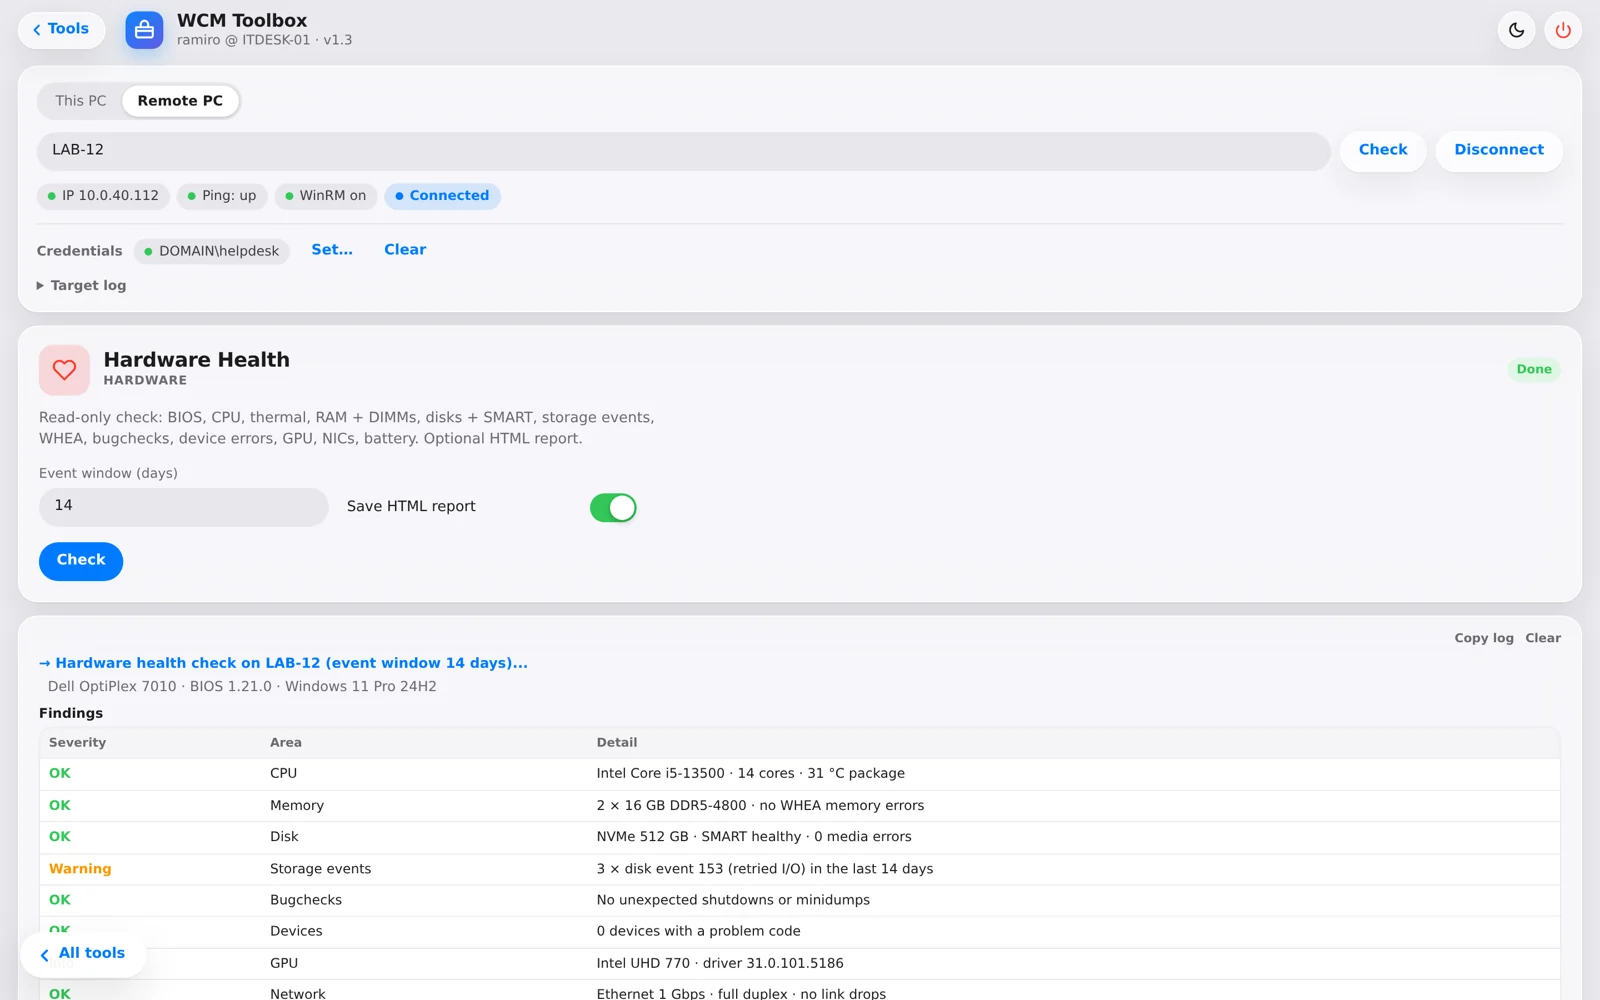
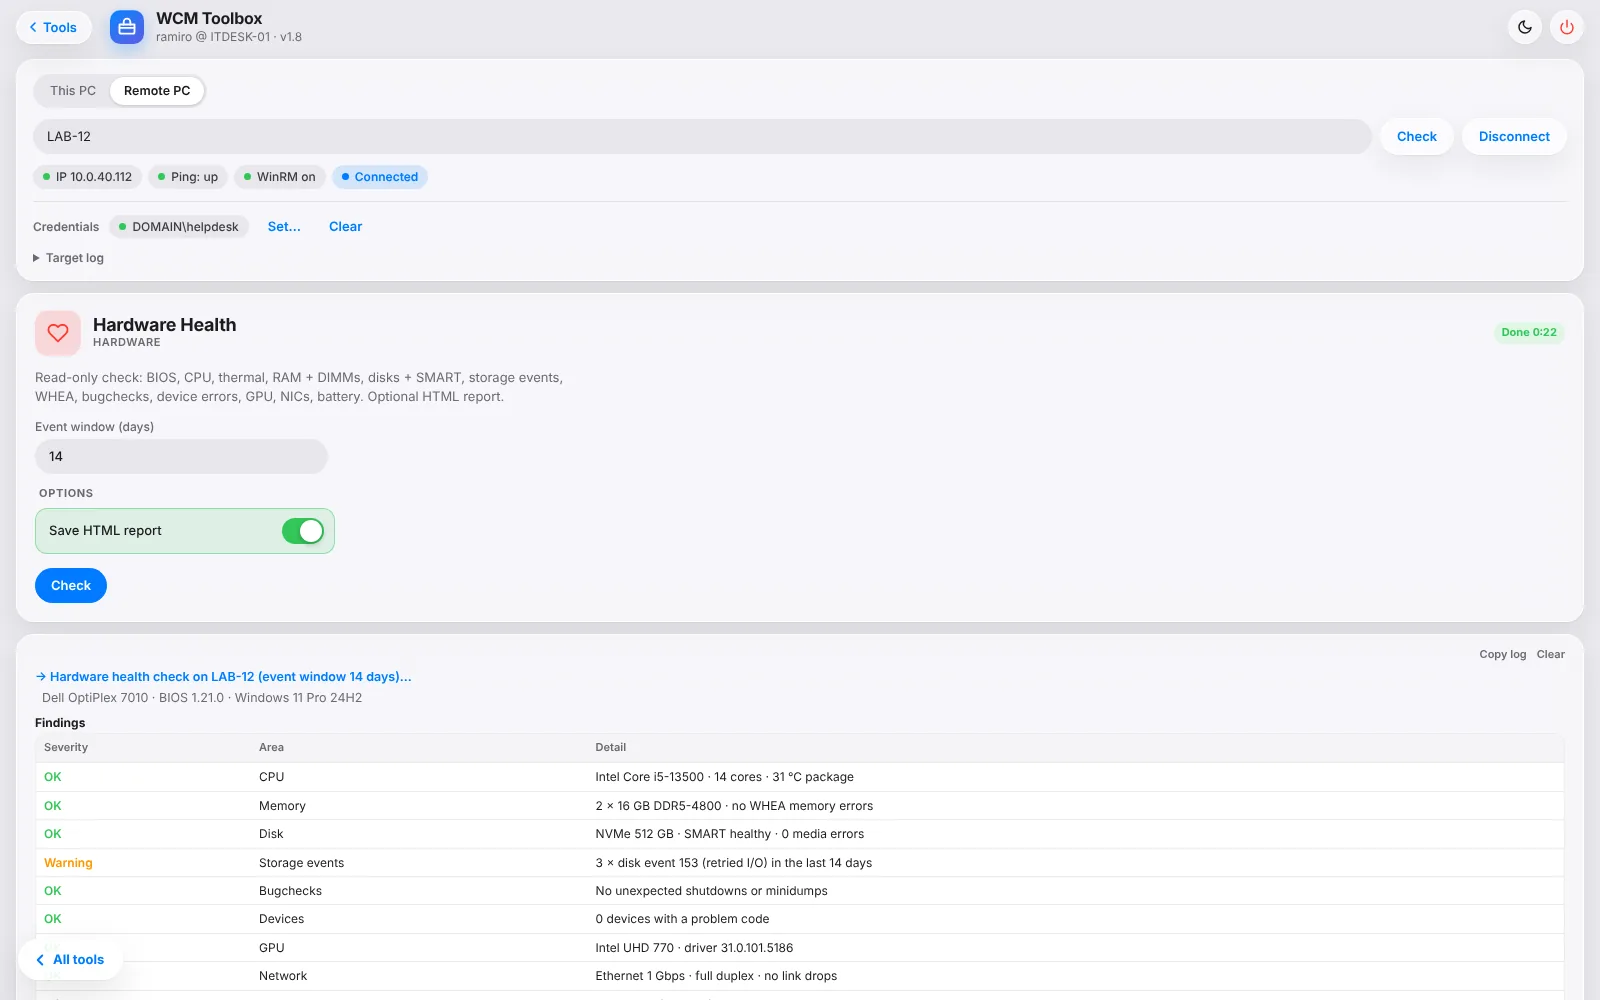
WCM Toolbox: ten-view gallery for v1.8 and updated card text

diff --git a/projects.html b/projects.html
@@ -93,20 +93,26 @@
     <div class="cards" data-group="work">
       <article class="card" data-group="work">
         <figure class="card-shot card-gallery">
-          <img src="images/wcm-toolbox-home.webp" alt="WCM Toolbox home screen in the light glass style: target bar connected to a lab PC, a rail of ten tool groups, and all 37 tool tiles including ProTight, Foxit, Python 2.7 Env and the driver, graphics and Desktop Authority checks" loading="lazy" onerror="this.closest('.card-shot').remove()">
-          <figcaption>Home · 37 tools in ten groups</figcaption>
+          <img src="images/wcm-toolbox-home.webp?v=20261106" alt="WCM Toolbox home screen in the light glass style: target bar connected to a lab PC, a rail of eleven tool groups, and all 41 tool tiles including Transfer User Files, App Updates, Add Printers, Shut Down and Python 2.7 Env" loading="lazy" onerror="this.closest('.card-shot').remove()">
+          <figcaption>Home · 41 tools in eleven groups</figcaption>
           <div class="gallery-thumbs" role="group" aria-label="WCM Toolbox views">
-            <button type="button" aria-pressed="true" data-label="Home · 37 tools in ten groups" data-alt="WCM Toolbox home screen in the light glass style: target bar connected to a lab PC, a rail of ten tool groups, and all 37 tool tiles including ProTight, Foxit, Python 2.7 Env and the driver, graphics and Desktop Authority checks"><img src="images/wcm-toolbox-home.webp" alt="" loading="lazy"></button>
-            <button type="button" aria-pressed="false" data-label="Hardware Health" data-alt="WCM Toolbox Hardware Health page: event window and report options, then a findings table with OK and warning rows, a summary banner and a link to the HTML report"><img src="images/wcm-toolbox-hardware.webp" alt="" loading="lazy"></button>
-            <button type="button" aria-pressed="false" data-label="Python 2.7 Env · three PCs" data-alt="WCM Toolbox Python 2.7 Env page after installing on three lab PCs: progress bar, pre-check table, package version table and a success banner"><img src="images/wcm-toolbox-python.webp" alt="" loading="lazy"></button>
-            <button type="button" aria-pressed="false" data-label="In-app confirm" data-alt="WCM Toolbox Force Restart confirm sheet over the blurred tool page, with Restart and Cancel buttons"><img src="images/wcm-toolbox-confirm.webp" alt="" loading="lazy"></button>
+            <button type="button" aria-pressed="true" data-label="Home · 41 tools in eleven groups" data-alt="WCM Toolbox home screen in the light glass style: target bar connected to a lab PC, a rail of eleven tool groups, and all 41 tool tiles including Transfer User Files, App Updates, Add Printers, Shut Down and Python 2.7 Env"><img src="images/wcm-toolbox-home.webp?v=20261106" alt="" loading="lazy"></button>
+            <button type="button" aria-pressed="false" data-label="Transfer User Files" data-alt="WCM Toolbox Transfer User Files page: old computer, new computer and username fields, a What to copy group of switches for Desktop, Documents, Downloads, Pictures, Videos, Outlook signatures, bookmarks and Sticky Notes, and an Overwrite existing files option"><img src="images/wcm-toolbox-transfer.webp?v=20261106" alt="" loading="lazy"></button>
+            <button type="button" aria-pressed="false" data-label="Transfer · test run" data-alt="WCM Toolbox Transfer User Files test run: checks on both PCs, an Outlook-open warning, then a per-folder table of new, overwrite and kept files with sizes, a link to the file list and a banner saying what would be copied"><img src="images/wcm-toolbox-transfer-test.webp?v=20261106" alt="" loading="lazy"></button>
+            <button type="button" aria-pressed="false" data-label="App Updates · winget" data-alt="WCM Toolbox App Updates page: four apps picked as chips, update options, and a table of available winget updates for the machine and the signed-in user with Ready, Explicit only and Protected statuses"><img src="images/wcm-toolbox-updates.webp?v=20261106" alt="" loading="lazy"></button>
+            <button type="button" aria-pressed="false" data-label="Add Printers" data-alt="WCM Toolbox Add Printers page: three printers picked from the live list of shared printers on the print server, with status, driver, location and IP for each"><img src="images/wcm-toolbox-printers.webp?v=20261106" alt="" loading="lazy"></button>
+            <button type="button" aria-pressed="false" data-label="Printers on the PC · duplicates" data-alt="WCM Toolbox printer status for a lab PC: installed printers, network printers per user and the logon printer tasks, with two duplicates flagged and a banner pointing to Remove duplicates"><img src="images/wcm-toolbox-printer-status.webp?v=20261106" alt="" loading="lazy"></button>
+            <button type="button" aria-pressed="false" data-label="Progress bar + run timers" data-alt="WCM Toolbox removing Microsoft 365 language packs: progress bar on package 2 of 3 with this-step and total timers, a running timer on the tool badge, and the time each package took"><img src="images/wcm-toolbox-m365.webp?v=20261106" alt="" loading="lazy"></button>
+            <button type="button" aria-pressed="false" data-label="Python 2.7 Env · three PCs" data-alt="WCM Toolbox Python 2.7 Env output after installing on three lab PCs: the progress bar pinned at the top showing the total time, each PC's checks, copy, pip install and import verification, and a summary table"><img src="images/wcm-toolbox-python.webp?v=20261106" alt="" loading="lazy"></button>
+            <button type="button" aria-pressed="false" data-label="Hardware Health" data-alt="WCM Toolbox Hardware Health page: event window and report option, then a findings table with OK and warning rows"><img src="images/wcm-toolbox-hardware.webp?v=20261106" alt="" loading="lazy"></button>
+            <button type="button" aria-pressed="false" data-label="In-app confirm" data-alt="WCM Toolbox Force Restart confirm sheet over the blurred tool page, with Restart and Cancel buttons"><img src="images/wcm-toolbox-confirm.webp?v=20261106" alt="" loading="lazy"></button>
           </div>
         </figure>
         <div class="card-body">
           <div class="card-kicker"><span>at WCMagnetics</span><span>shipped</span></div>
           <h3>WCM Toolbox — Remote Support Scripts as a Web App</h3>
-          <p>The PowerShell scripts I reach for every day, bundled into one PowerShell 7 script that serves a local web UI — now 37 tools in ten groups. Remote sessions, forced restart and rename; WinRM, Remote Desktop, local-logon rights and Remote Registry on or off; autologon for shared production accounts; profile removal; hardware health, RAM, storage, USB, driver-integrity, graphics-crash and Desktop Authority client checks; app fixes like a forced uninstaller, Teams reset, Foxit as the default PDF reader and a Python 2.7 installer that readies lab PCs for legacy test-data scripts; plus drive cleanup, Windows repair and a network file search. Every tool opens as a full page with live output, tables and progress bars, risky ones ask first in an in-app sheet, and the Toolbox handles WinRM itself — enabling it over DCOM when a PC needs it and rolling it back on disconnect. Restyled in the same light glass look as MyNotes. Script blocks that run on remote PCs stay Windows PowerShell 5.1-compatible.</p>
-          <div class="chips"><span class="chip hi">PowerShell 7</span><span class="chip">local web UI</span><span class="chip">WinRM / DCOM</span><span class="chip">remote admin</span></div>
+          <p>The PowerShell scripts I reach for every day, bundled into one PowerShell 7 script that serves a local web UI — now 41 tools in eleven groups. Remote sessions, forced restart, shut down and rename; WinRM, Remote Desktop, local-logon rights and Remote Registry on or off; autologon for shared production accounts; profile removal and a user-file transfer that copies Desktop, Documents and more from an old PC to a new one (test run first, and the old PC is only ever read); hardware health, RAM, storage, USB, driver-integrity, graphics-crash and Desktop Authority client checks; app updates through winget for the machine and the signed-in user, with a never-upgrade list; printers added from the print server for every user, with duplicate clean-up; app fixes like a forced uninstaller, Microsoft 365 language-pack removal, Teams reset, Foxit as the default PDF reader and a Python 2.7 installer that readies lab PCs for legacy test-data scripts; plus drive cleanup, Windows repair and a network file search. Every tool opens as a full page with live output, tables, progress bars and run timers, risky ones ask first in an in-app sheet, each connection gets its own session log, and the Toolbox handles WinRM itself — enabling it over DCOM when a PC needs it and rolling it back on disconnect. Restyled in the same light glass look as MyNotes. Script blocks that run on remote PCs stay Windows PowerShell 5.1-compatible.</p>
+          <div class="chips"><span class="chip hi">PowerShell 7</span><span class="chip">local web UI</span><span class="chip">WinRM / DCOM</span><span class="chip">winget</span><span class="chip">remote admin</span></div>
         </div>
       </article>
       <article class="card" data-group="work">

diff --git a/CLAUDE.md b/CLAUDE.md
@@ -136,6 +136,27 @@ branch `main`, root folder. **Live:** https://xotwod197.github.io/Ramiros_Portfo
 
 ## Changelog (newest first)
 
+### 2026-11-06, later (work PC via Claude)
+- **WCM Toolbox card → ten-view gallery** for the v1.8 Toolbox (41 tools in eleven groups):
+  replaced in place `wcm-toolbox-home.webp` (1920×1200), `wcm-toolbox-python.webp`,
+  `wcm-toolbox-hardware.webp`, `wcm-toolbox-confirm.webp`; new `wcm-toolbox-transfer.webp`
+  (Transfer User Files with the grouped switches), `wcm-toolbox-transfer-test.webp` (its test run),
+  `wcm-toolbox-updates.webp` (App Updates / winget with picked apps),
+  `wcm-toolbox-printers.webp` (Add Printers from the print server),
+  `wcm-toolbox-printer-status.webp` (printers on a PC with duplicates flagged) and
+  `wcm-toolbox-m365.webp` (M365 language-pack removal mid-run: progress bar with step + total
+  timers, running badge). All 1600×1000 (16:10) WebP except home. Gallery `src`s carry
+  `?v=20261106` so the four replaced files aren't served from cache.
+- Rendered from the real `ui.html` with a mock API and demo data only: `ITDESK-01`, `LAB-07/12/14/15`,
+  `DOMAIN\helpdesk`, users `jdoe` / `asmith`, `PRINTSRV01.corp.local`, `FILESRV`, 10.0.x IPs,
+  generic printer names; internal server names, the domain and the Python tool's
+  customer/part identifiers were replaced in the tool texts before rendering. The Toolbox font
+  (Plus Jakarta Sans, Google Fonts) isn't reachable from the render box, so Inter stands in.
+- Card text: 41 tools in eleven groups; adds shut down, user-file transfer (test run first, old PC
+  only read), winget app updates with a never-upgrade list, printers from the print server with
+  duplicate clean-up, M365 language-pack removal, run timers and per-connection session logs.
+  New chip `winget`. No CSS or résumé change, so no `?v=` bump on site.css and no PDF regen.
+
 ### 2026-11-06 (work PC via Claude)
 - **MyNotes card: five new screenshots** for the current app (Log out pill in the sidebar,
   Synced cloud indicator, long titles fitting the selection highlight). Same filenames,
